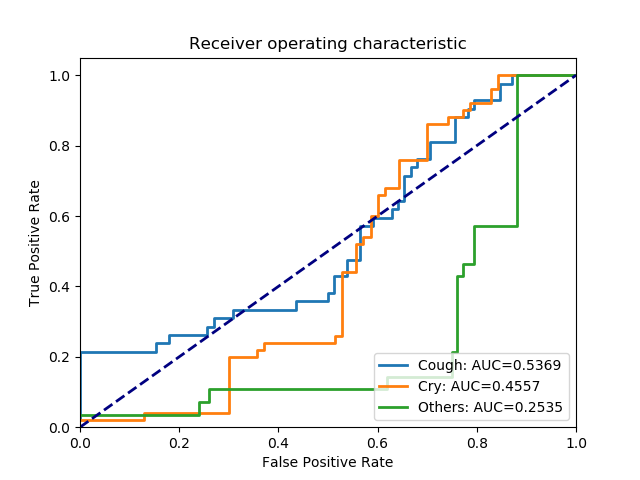
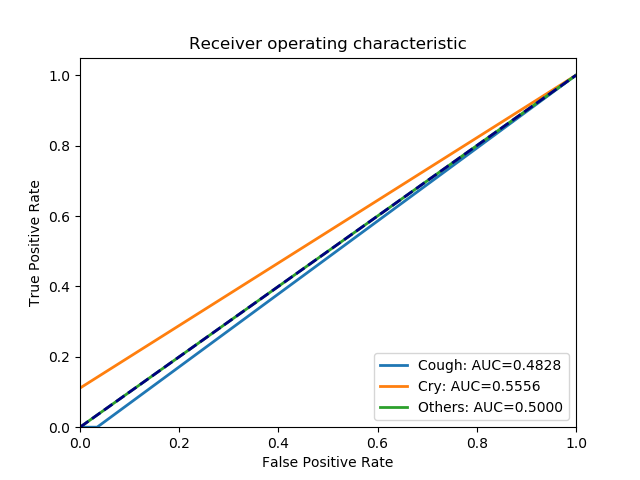
Works

diff --git a/core/models.py b/core/models.py
@@ -34,7 +34,7 @@ def MyCNN_Keras2(X_shape, nb_classes, nb_layers=4):
     from keras import backend as K
     K.set_image_data_format('channels_last')                   # SHH changed on 3/1/2018 b/c tensorflow prefers channels_last
 
-    nb_filters = 32  # number of convolutional filters = "feature maps"
+    nb_filters = 8  # number of convolutional filters = "feature maps"
     kernel_size = (3, 3)  # convolution kernel size
     pool_size = (2, 2)  # size of pooling area for max pooling
     cl_dropout = 0.5    # conv. layer dropout
@@ -47,15 +47,15 @@ def MyCNN_Keras2(X_shape, nb_classes, nb_layers=4):
     model.add(BatchNormalization(axis=1))
     model.add(Activation('relu'))        # Leave this relu & BN here.  ELU is not good here (my experience)
 
-    for layer in range(nb_layers-1):   # add more layers than just the first
-        model.add(Conv2D(nb_filters, kernel_size))
-        #model.add(BatchNormalization(axis=1))  # ELU authors reccommend no BatchNorm. I confirm.
-        model.add(Activation('elu'))
-        model.add(MaxPooling2D(pool_size=pool_size))
-        model.add(Dropout(cl_dropout))
+    # for layer in range(nb_layers-1):   # add more layers than just the first
+    #     model.add(Conv2D(nb_filters, kernel_size))
+    #     #model.add(BatchNormalization(axis=1))  # ELU authors reccommend no BatchNorm. I confirm.
+    #     model.add(Activation('elu'))
+    #     model.add(MaxPooling2D(pool_size=pool_size))
+    #     model.add(Dropout(cl_dropout))
 
     model.add(Flatten())
-    model.add(Dense(128))            # 128 is 'arbitrary' for now
+    model.add(Dense(32))            # 128 is 'arbitrary' for now
     #model.add(Activation('relu'))   # relu (no BN) works ok here, however ELU works a bit better...
     model.add(Activation('elu'))
     model.add(Dropout(dl_dropout))
@@ -229,7 +229,7 @@ def setup_model(X, class_names, nb_layers=4, try_checkpoint=True,
                 print('No weights file detected, so starting from scratch.')
 
 
-    opt = 'adadelta' # Adam(lr = 0.00001)  # So far, adadelta seems to work the best of things I've tried
+    opt = Adam(lr = 0.01) #'adadelta' #   # So far, adadelta seems to work the best of things I've tried
     metrics = ['accuracy']
 
     if (multi_tag):     # multi_tag means more than one class can be 'chosen' at a time; default is 'only one' 

diff --git a/eval_network.py b/eval_network.py
@@ -1,17 +1,4 @@
 #! /usr/bin/env python3
-
-'''
-Classify sounds using database - evaluation code.
-Generates a score based on contents of Preproc/Test/
-
-Author: Scott H. Hawley
-
-This is kind of a mixture of Keun Woo Choi's code https://github.com/keunwoochoi/music-auto_tagging-keras
-   and the MNIST classifier at https://github.com/fchollet/keras/blob/master/examples/mnist_cnn.py
-
-Trained using Fraunhofer IDMT's database of monophonic guitar effects,
-   clips were 2 seconds long, sampled at 44100 Hz
-'''
 from __future__ import print_function
 import numpy as np
 import matplotlib

diff --git a/README.md b/README.md
@@ -37,7 +37,7 @@ Sound files should go into a directory called `Samples/` that is local off where
 
 (Within each subdirectory of `Samples`, there are loads of .wav or .mp3 files that correspond to each of those classes.)
 
-*"Is there any sample data that comes with this repo?"*  Not the data itself, but check out the `examples/` directory. ;-)
+Dowload this https://www.dropbox.com/s/wuykvh5krp2jq7n/Samples.zip?dl=0 . Place it under the root folder
 
 
 ### Data augmentation & preprocessing:
@@ -51,6 +51,7 @@ The "augmentation" will [vary the speed, pitch, dynamics, etc.](https://bmcfee.g
 where *N* is how many augmented copies of each file you want it to create.  It will place all of these in the Samples/ directory with some kind of "_augX" appended to the filename (where X just counts the number of the augmented data files).
 For augmentation it's assumed that all data files have the same length & sample rate.
 
+
 #### (Required) Preprocessing:
 When you preprocess, the data-loading will go *much* faster (e.g., 100 times faster) the next time you try to train the network. So, preprocess.
 
@@ -63,34 +64,23 @@ To do the preprocessing you just run
 `$ python preprocess_data.py`
 
 
-## Training & Evaluating the Network
+## Training  the Network
 `$ python train_network.py`
 
 That's all you need. 
 
-It will perform an 80-20 split of training vs. testing data, and give you some validation scores along the way.  
+It will perform an 80-20 split of training vs. testing data,  
 
-It's set to run for 2000 epochs, feel free to shorten that or just ^C out at some point.  It automatically does checkpointing by saving(/loading) the network weights via a new file `weights.hdf5`, so you can interrupt & resume the training if you need to.
+It's set to run for 20 epochs, feel free to shorten that or just ^C out at some point.  It automatically does checkpointing by saving(/loading) the network weights via a new file `weights.hdf5`, so you can interrupt & resume the training if you need to.
 
-After training, more diagnostics -- ROC curves, AUC -- can be obtained by running
+
+## Evaluating the Network
 
 `$ python eval_network.py`
 
-*(Changing the `batch_size` variable between training and evaluation may not be a good idea.  It will probably screw up the Batch Normalization...but maybe you'll get luck.)*
+Will give some validation scores along the way. 
 
-
-
-## Results
-On the [IDMT Audio Effects Database](https://www.idmt.fraunhofer.de/en/business_units/m2d/smt/audio_effects.html) using the 20,000 monophonic guitar samples across 12 effects classes, this code achieved 99.7% accuracy and an AUC of 0.9999. Specifically, 11 mistakes were made out of about 4000 testing examples; 6 of those were for the 'Phaser' effect, 3 were for EQ, a couple elsewhere, and most of the classes had zero mistakes. (No augmentation was used.)
-
-<a href="url"><img src="http://i.imgur.com/nWHqAWy.png" width="400"></a>
-
-This accuracy is comparable to the [original 2010 study by Stein et al.](http://www.ece.rochester.edu/courses/ECE472/resources/Papers/Stein_2010.pdf), who used a Support Vector Machine.
-
-This was achieved by running for 10 hours on [our workstation with an NVIDIA GTX1080 GPU](https://pcpartpicker.com/b/4xLD4D). 
 
 ## Extra Tricks
-- We have multi-GPU training.  The saving & loading means we get warning messages from Keras. Ignore those. It's because if we compile both the parallel model and its
-serial counterpart, it breaks things. So we leave the serial one uncompiled and that's the one we have to save. I regard this problem as a 'bug' in the Keras multi-gpu protocols.
-- Speaking of saving & loading, we encode the names of the output classes in the weights.hdf5 file using a HDF5 attribute 'class_names'.
+ python ./predict_class.py file /Users/diesel/Documents/sound-classification-with-tf-keras/Samples/Cry/baby-crying-01_aug1.wav
 
